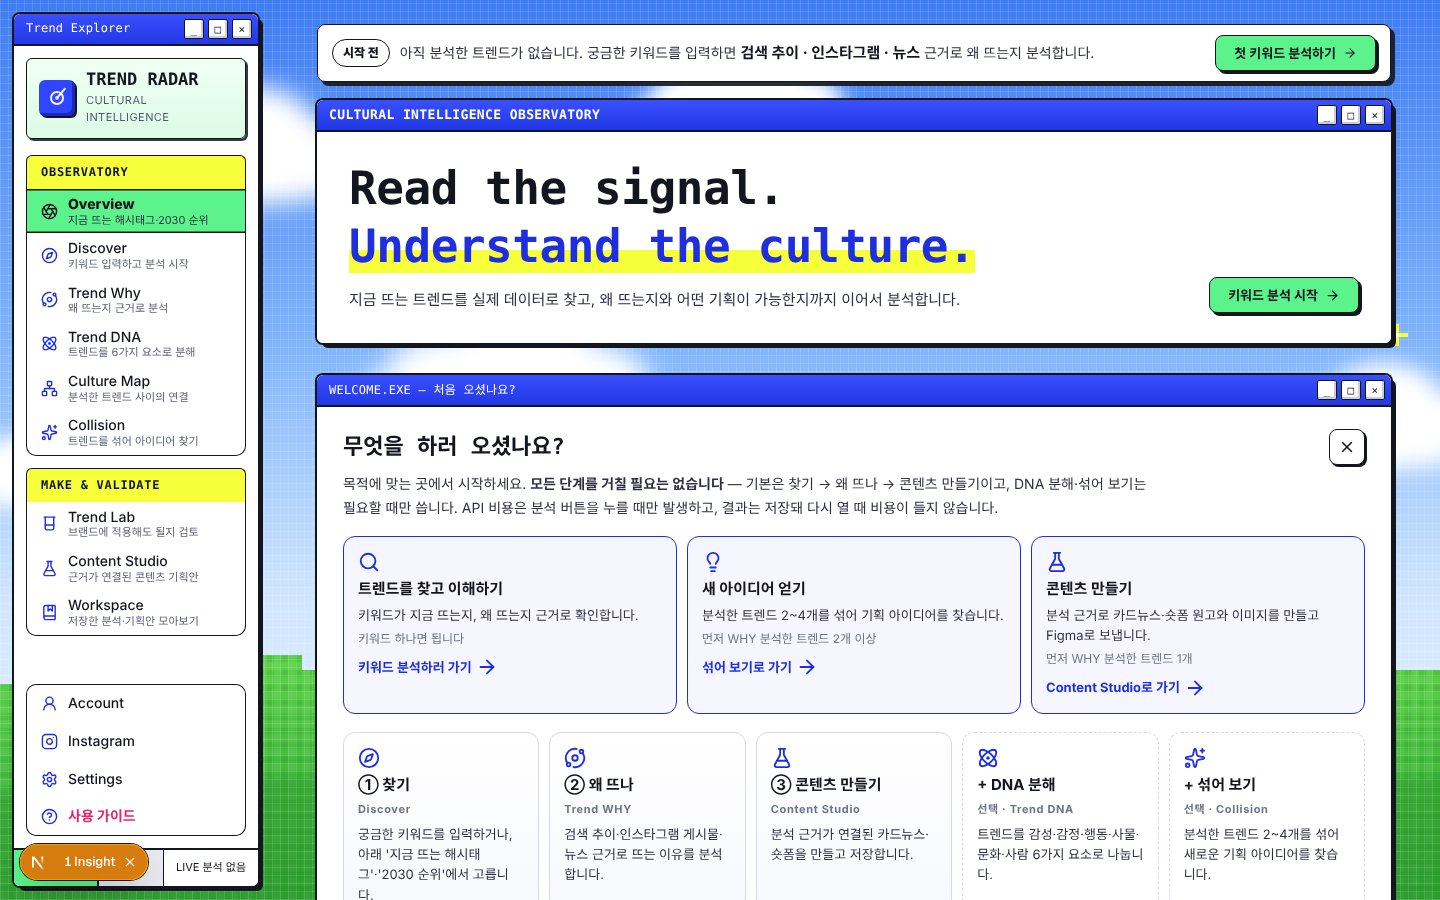
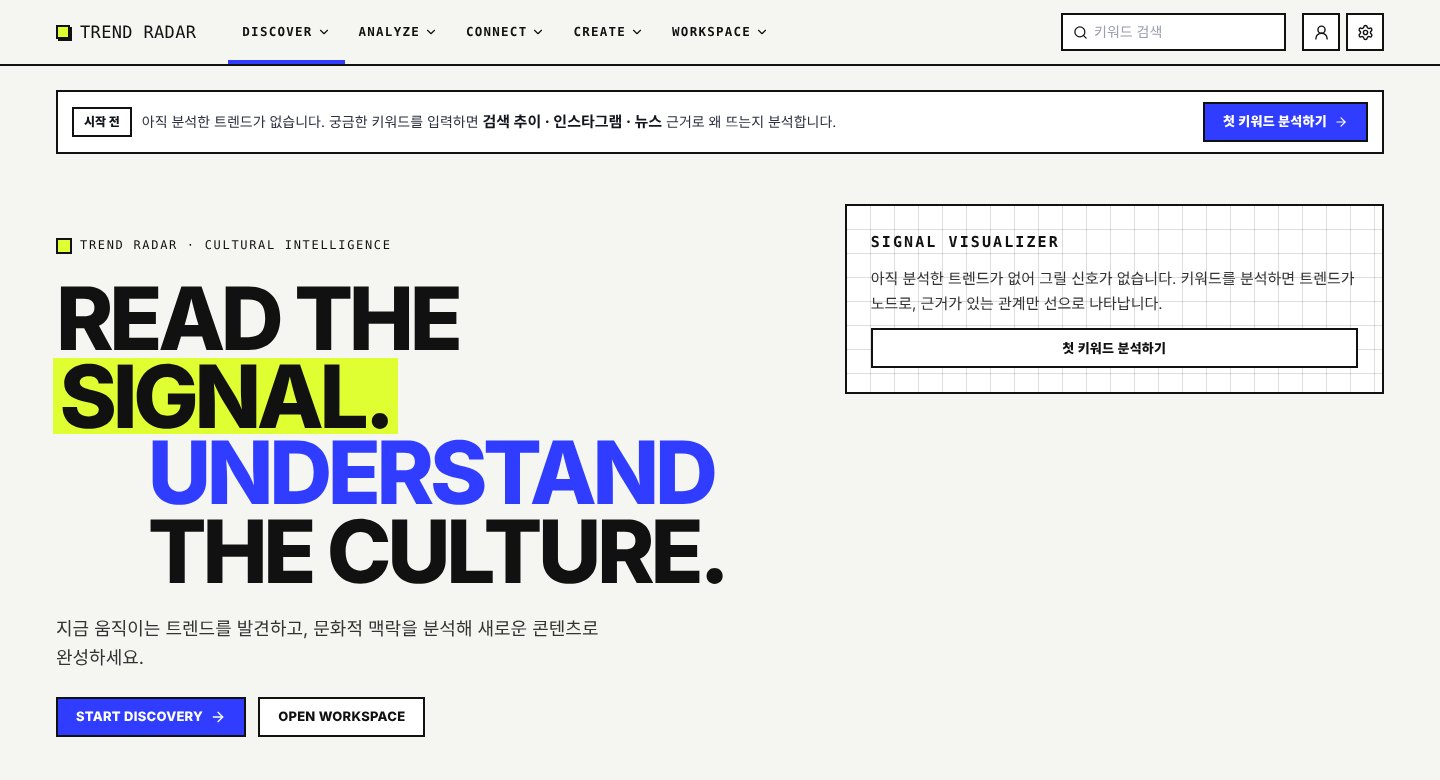
Show Trend Radar in Editorial Web style
Claude-Session: https://claude.ai/code/session_01Fqa4G4EBV7wkk3NrKy1GKy

diff --git a/index.html b/index.html
@@ -256,16 +256,16 @@ dt{color:var(--sub)}dd{margin:0}
 
 /* Web project */
 .web{display:grid;grid-template-columns:minmax(0,1.35fr) minmax(0,1fr);gap:clamp(28px,5vw,72px);align-items:center;padding-block:40px 130px}
-.win{border:2px solid #000;border-radius:10px;overflow:hidden;background:#fff;box-shadow:10px 10px 0 #2f5bff}
-.win .bar2{display:flex;align-items:center;gap:7px;padding:9px 12px;background:#2f5bff;color:#fff;font:12px/1 "Space Mono",monospace}
+.win{border:2px solid #f3f3f1;border-radius:4px;overflow:hidden;background:#f4f4ef;box-shadow:10px 10px 0 #e2ff3d}
+.win .bar2{display:flex;align-items:center;gap:7px;padding:9px 12px;background:#111;color:#fff;font:12px/1 "Space Mono",monospace}
 .win .bar2 i{width:10px;height:10px;border-radius:2px;background:#fff;opacity:.9}
 .win .bar2 span{margin-left:8px}
-.web small{font:600 13px/1 Archivo,sans-serif;color:#7d9bff;letter-spacing:.04em}
+.web small{font:600 13px/1 Archivo,sans-serif;color:#e2ff3d;letter-spacing:.04em}
 .web h3{margin:12px 0 6px;font:900 clamp(34px,4.4vw,56px)/1 Archivo,sans-serif}
 .web .tag{margin:0 0 20px;color:var(--sub);font:15px/1.4 Archivo,sans-serif}
 .web p{margin:0 0 14px;color:#d9d9d6;word-break:keep-all}
 .web ul{margin:0 0 22px;padding:0;list-style:none;display:grid;gap:8px;font-size:15px}
-.web li::before{content:"— ";color:#7d9bff}
+.web li::before{content:"— ";color:#e2ff3d}
 .links{display:flex;flex-wrap:wrap;gap:10px}
 .links a{display:inline-flex;align-items:center;min-height:44px;padding:0 18px;border-radius:99px;border:1px solid #3a3a3d;text-decoration:none;font-weight:700;font-size:14px}
 .links a.pri{background:var(--ink);color:#000;border-color:var(--ink)}
@@ -575,7 +575,7 @@ dt{color:var(--sub)}dd{margin:0}
 </div>
 
 <section class="wrap web" id="web" data-tl="Web">
-  <div class="win" data-rev><div class="bar2"><i></i><i></i><i></i><span>trend-radar.axworks.site</span></div><img src="img/trendradar.jpg" alt="TREND RADAR 첫 화면" loading="lazy" width="1440" height="900"></div>
+  <div class="win" data-rev><div class="bar2"><i></i><i></i><i></i><span>trend-radar.axworks.site</span></div><img src="img/trendradar.jpg" alt="TREND RADAR 첫 화면 (Editorial Web 스타일)" loading="lazy" width="1440" height="780"></div>
   <div data-rev>
     <small>WEB PROJECT · 개인 제작</small>
     <h3>TREND RADAR</h3>
@@ -584,7 +584,7 @@ dt{color:var(--sub)}dd{margin:0}
     <ul>
       <li>Trend WHY · Trend DNA · Culture Map으로 트렌드 해석</li>
       <li>Content Studio에서 카드뉴스·숏폼 기획안 작성</li>
-      <li>Y2K 픽셀 데스크톱 콘셉트의 UI 디자인</li>
+      <li>Editorial Web · Y2K Pixel Desktop 두 가지 UI 스타일 설계</li>
       <li class="en">Built in VS Code with Claude &amp; Codex (AI-assisted coding)</li>
     </ul>
     <div class="links"><a class="pri" href="https://trend-radar.axworks.site/">사이트 보기 ↗</a><a href="https://github.com/kimminnmnm/trend-radar">GitHub ↗</a></div>
